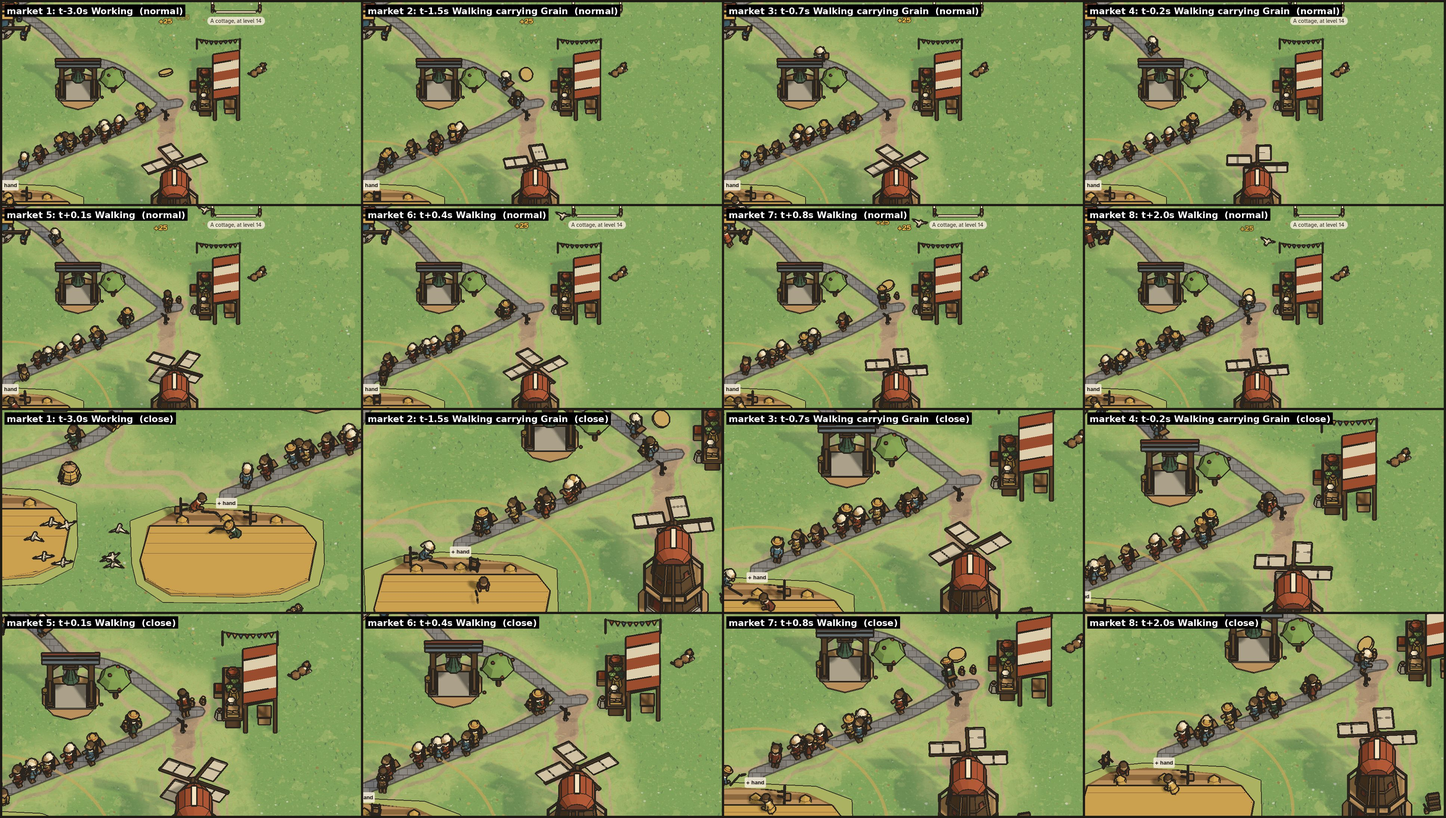
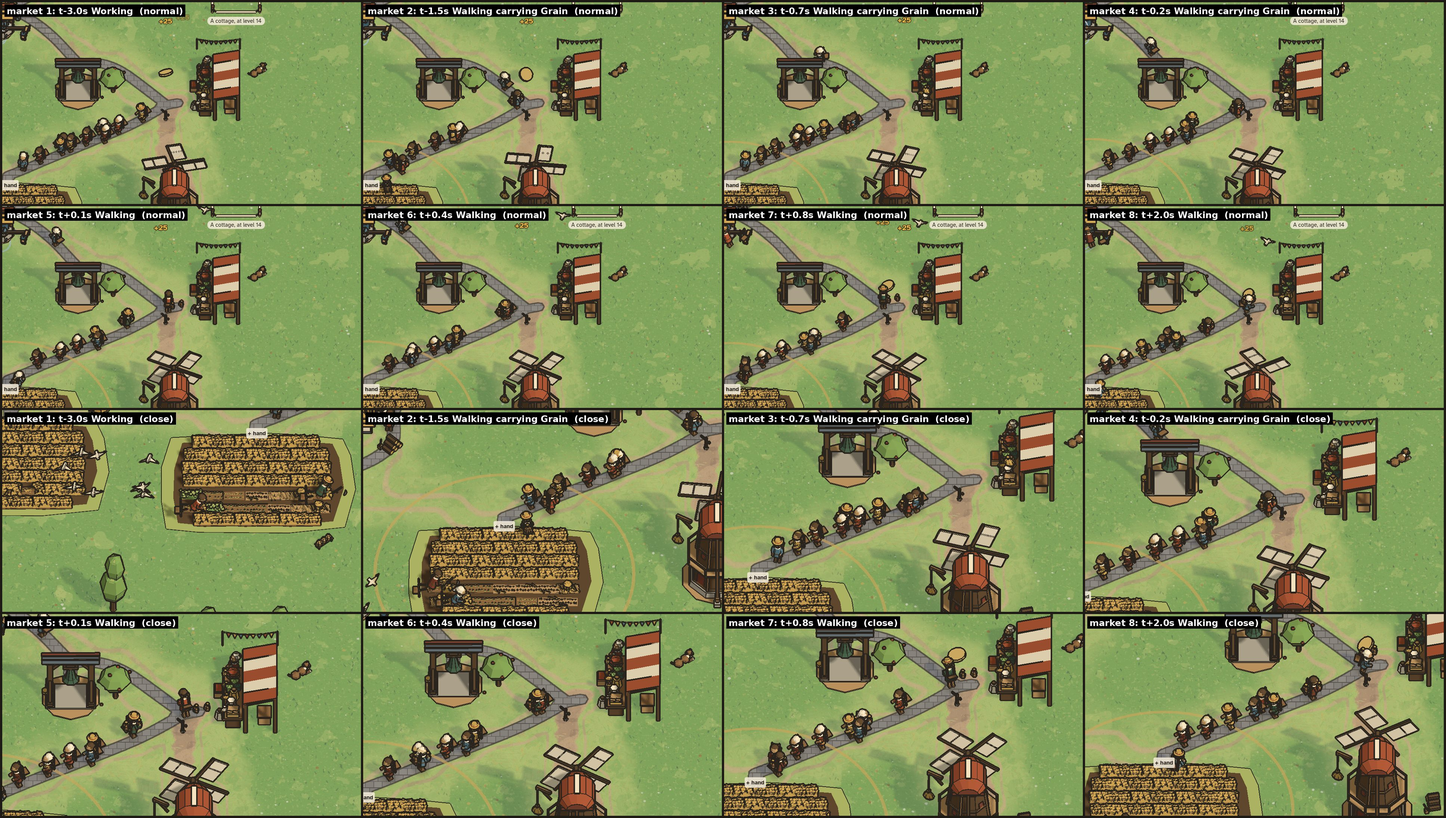
Snapshot: pails on the rim's stone, table goods larger, after strips, progress notes for the join
Claude-Session: https://claude.ai/code/session_017q4atD9S5umMXhdUL1pfcb

diff --git a/game/scripts/town/work/StallTable.cs b/game/scripts/town/work/StallTable.cs
@@ -60,7 +60,8 @@ public partial class StallTable : Node3D
     {
         Good.Water => "work-pot", Good.Grain => "work-sack-grain", Good.Flour => "work-sack-flour", _ => "work-crate",
     };
-    private static float ScaleOf(Good g) => g is Good.Grain or Good.Flour ? 0.72f : g == Good.Water ? 1f : 0.85f;
+    // a little over the board's sizes: at the normal view the goods arriving on the table carry the delivery
+    private static float ScaleOf(Good g) => 1.25f * (g is Good.Grain or Good.Flour ? 0.72f : g == Good.Water ? 1f : 0.85f);
 
     /// <summary>A place on the table in the stall model's frame: two rows of four along the front.</summary>
     private Vector3 Local(int i)

diff --git a/game/scripts/town/work/WellWorks.cs b/game/scripts/town/work/WellWorks.cs
@@ -71,7 +71,7 @@ public partial class WellWorks : Node3D
         for (int i = 0; i < 2; i++)
         {
             var d = _toView.Rotated(Vector3.Up, i == 0 ? -0.55f : 0.45f);
-            PailPos[i] = d * 0.86f + new Vector3(0, 1.72f / BoardScale, 0);
+            PailPos[i] = d * 1.0f + new Vector3(0, 1.72f / BoardScale, 0);   // on the stone of the rim, not over the water
         }
         var holder = new Node3D { Name = "Work" };
         body.AddChild(holder);

diff --git a/docs/plans/n5/places-progress.md b/docs/plans/n5/places-progress.md
@@ -46,11 +46,38 @@ See the table at the end (filled in when the last run is done).
 
 `build/n5-places/now/` (taken with `--now-work`, real game, not staged): `work-now-{well,field,field-1,field-2,field-3,mill,market,cottage}-{close,normal}.png`.
 
-## Joining: what the villagers' side calls and reads
+## Joined to the villagers (done in this branch)
+
+The villagers' part (`claude/prototype-1`, merge `4711f01`) was merged into `wt/n5-places` (merge commit "Snapshot: merge
+the villagers' part"). One conflict, `tools/check.sh`, where both added a step: both steps kept (`game-work` after
+`game-motion`, `game-work-places` after `game-save`) and both names in the "godot not found" list.
+
+- `PlaceSite.cs` (new): one `IWorkSite` per well, field, mill, market and cottage plot, registered by `WorkPlaces`
+  on every new town (`WorkSites.Clear()` then `Register`). `WorkPlaces.DetectFromSim` is now **false**: the places
+  answer to the villagers' calls only; the old detection stays behind the switch for a build without them.
+  - `WorkStarted`: the well's two pails stand on the rim (they fill as the bucket comes up); the mill's flour sack of
+    that spot stands on the step while the grain is ground.
+  - `WorkFinished`: the well's bucket tips (splash) and the pails leave the rim over `WorkSites.TakeSeconds`; a field's
+    row front moves on, a stook is laid where it passed and the older one leaves over `TakeSeconds`; the mill puffs
+    flour and that spot's flour sack leaves over `TakeSeconds`.
+  - `Delivered`: the market puts the load on the table place the arc was aimed at (it drops the last bit and settles
+    with a small overshoot, 25 percent larger than the board's goods, so the arrival reads at the normal view); a
+    cottage's door opens and the chimney puffs.
+  - `Spot`: a field's worker stands just behind the front of their row, facing the standing crop (heading 0). Other
+    places keep the defaults.
+  - `GoodsAt`: the stook being taken up on that row; the middle of the well's two pails; the mill's flour sack of that
+    spot; the market's next free table place; a cottage's door.
+- `villager-sickle.glb` and `villager-scythe.glb` (generator `work-scenes.py`, ledger rows): in the hand frame the
+  villagers use (hand at the origin, handle up +Y, blade at the top curving forward +Z), pale (Concrete) blades, the
+  sickle 0.8 m and the scythe 1.36 m in the villager model's frame, so they read at the normal view.
+- The test `game-work-places` reads the joined path: the market check now allows the villager's 0.45 s arc (never more
+  loads on the table than delivered, never fewer than were delivered a second before; none missed).
+
+## Positions and calls (for reference)
 
 All positions are map metres in `MapOrigin`'s space (what `TownVillagers` draws in). Reach them through `Main.Work`.
 
-Calls (once joined, set `WorkPlaces.DetectFromSim = false`, or the places count each event twice):
+Direct calls on `Main.Work` (used only with `WorkPlaces.DetectFromSim = true`; joined, `PlaceSite` calls the places):
 
 - `UnitFinished(int workplace, int slot)`: a unit of work finished at a workplace (index into `Town.Workplace`) by the worker on the simulation's work spot `slot` (-1 if not known). `VillagerView` carries no `Slot`; `WorkPlaces.SlotOf(town, workplace, v.X, v.Y)` finds it from where the simulation put the worker (exactly on `Town.WorkSpot(plot, Slot)`), as this side does until joined. The well tips its bucket and fills the pails, a field's row front moves and lays a stook, the mill puffs and sets a flour sack on the step.
 - `GoodsTaken(int workplace, int slot)`: that worker has taken up the goods (stooped and lifted). The pails leave the rim, the older stook on the row goes, the oldest flour sack goes. Until joined these leave 0.9 to 1.1 s after the unit; joined, they leave when this is called.
